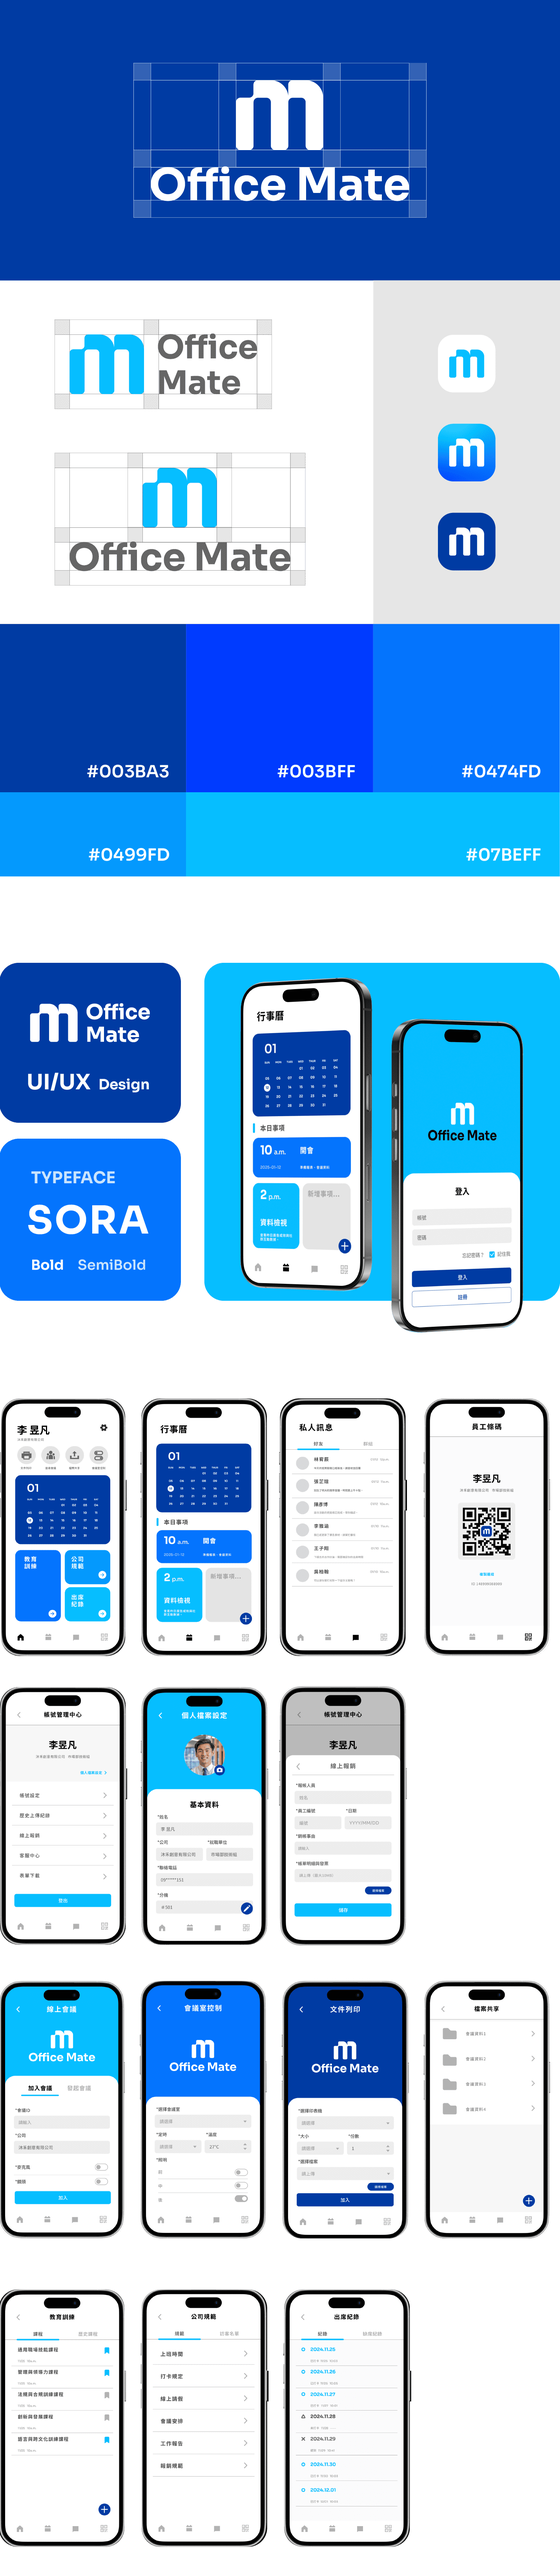
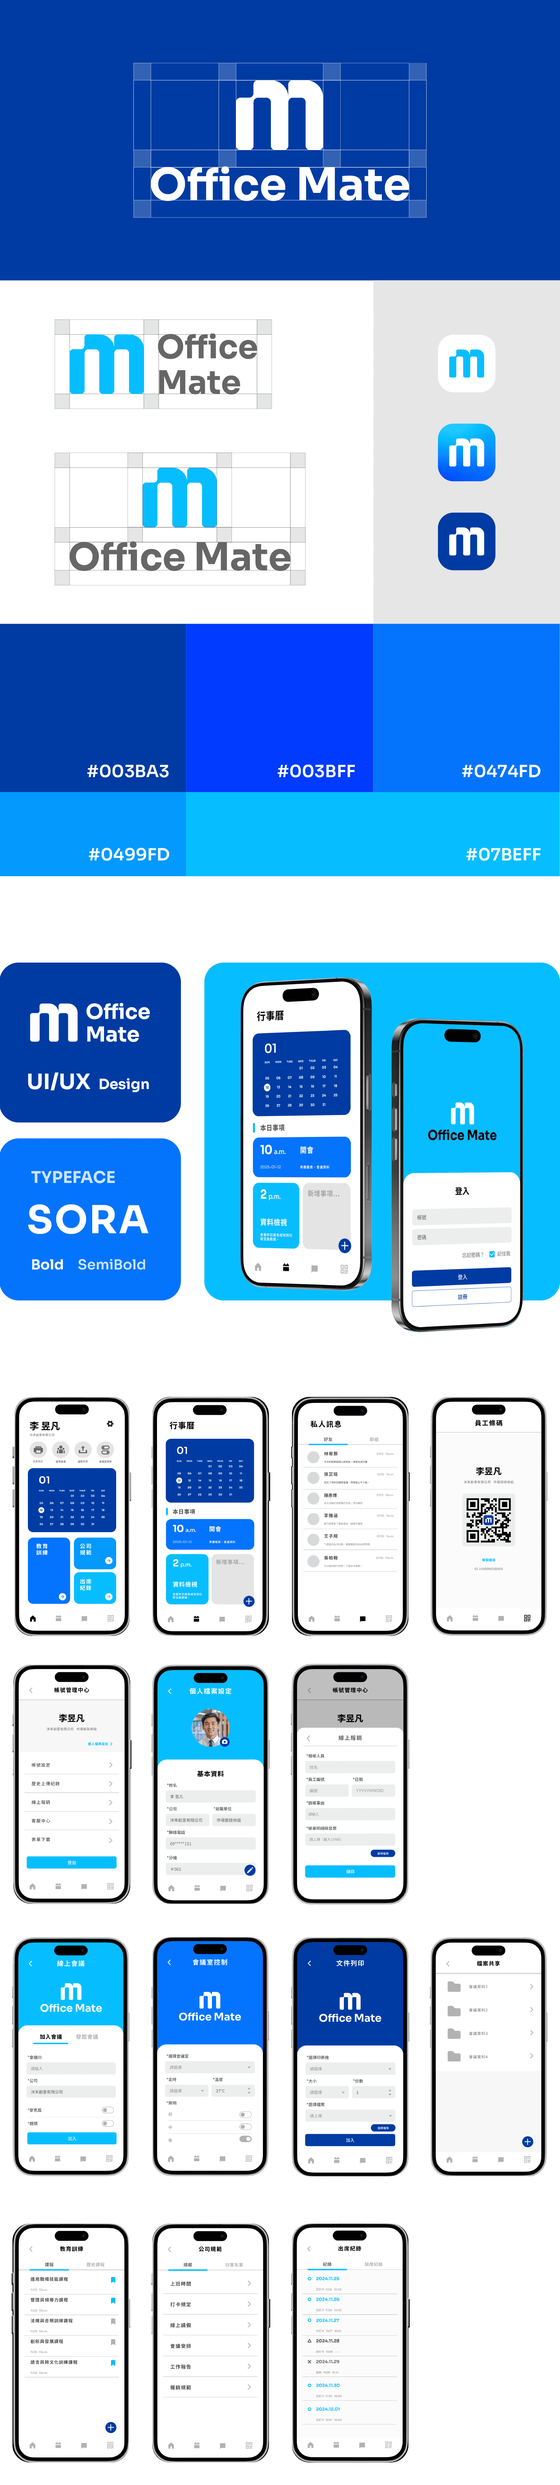
0050

Changed region(s): [[0.0, 0.2803, 1.0, 0.9967], [0.0, 0.0311, 1.0, 0.2492], [0.8325, 0.8409, 0.8633, 0.8721]]

diff --git a/design/OfficeMate.html b/design/OfficeMate.html
@@ -81,7 +81,7 @@
             .container {
             max-width: 1200px;
             margin: 0 auto;
-            padding: 0 12% 5%;
+            padding: 0 15% 5%;
             }
             .title {
             font-size: 3.2rem;
